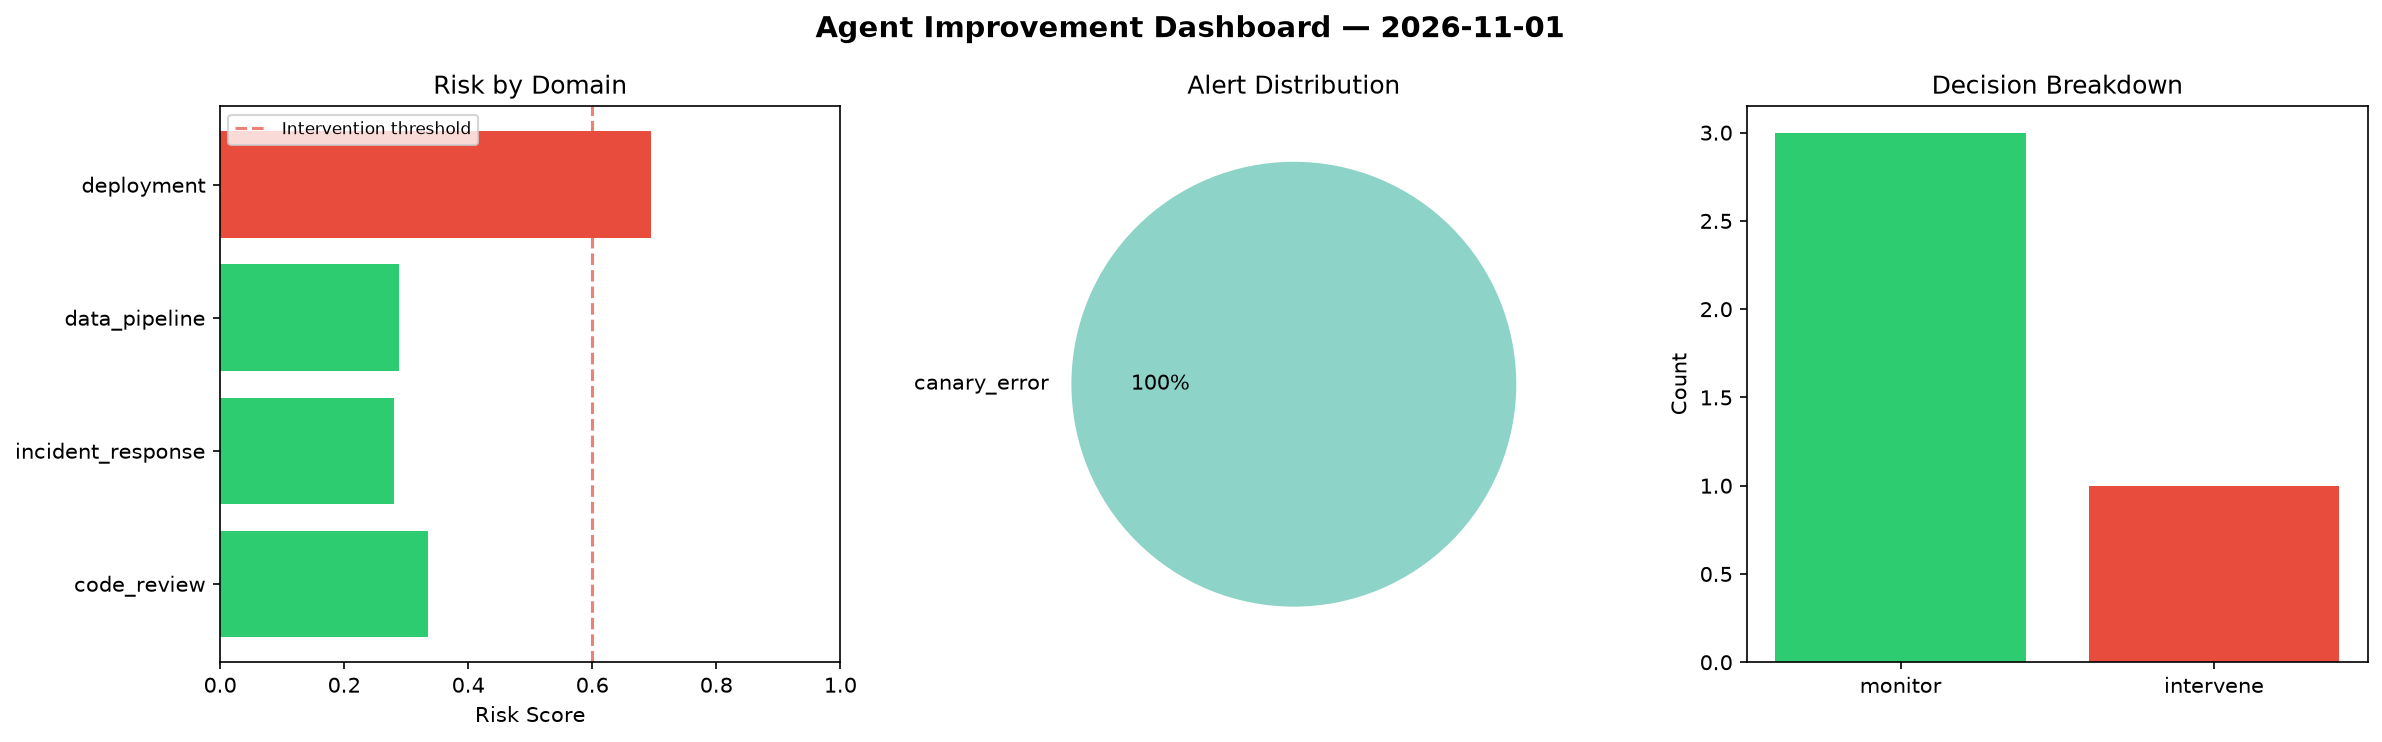
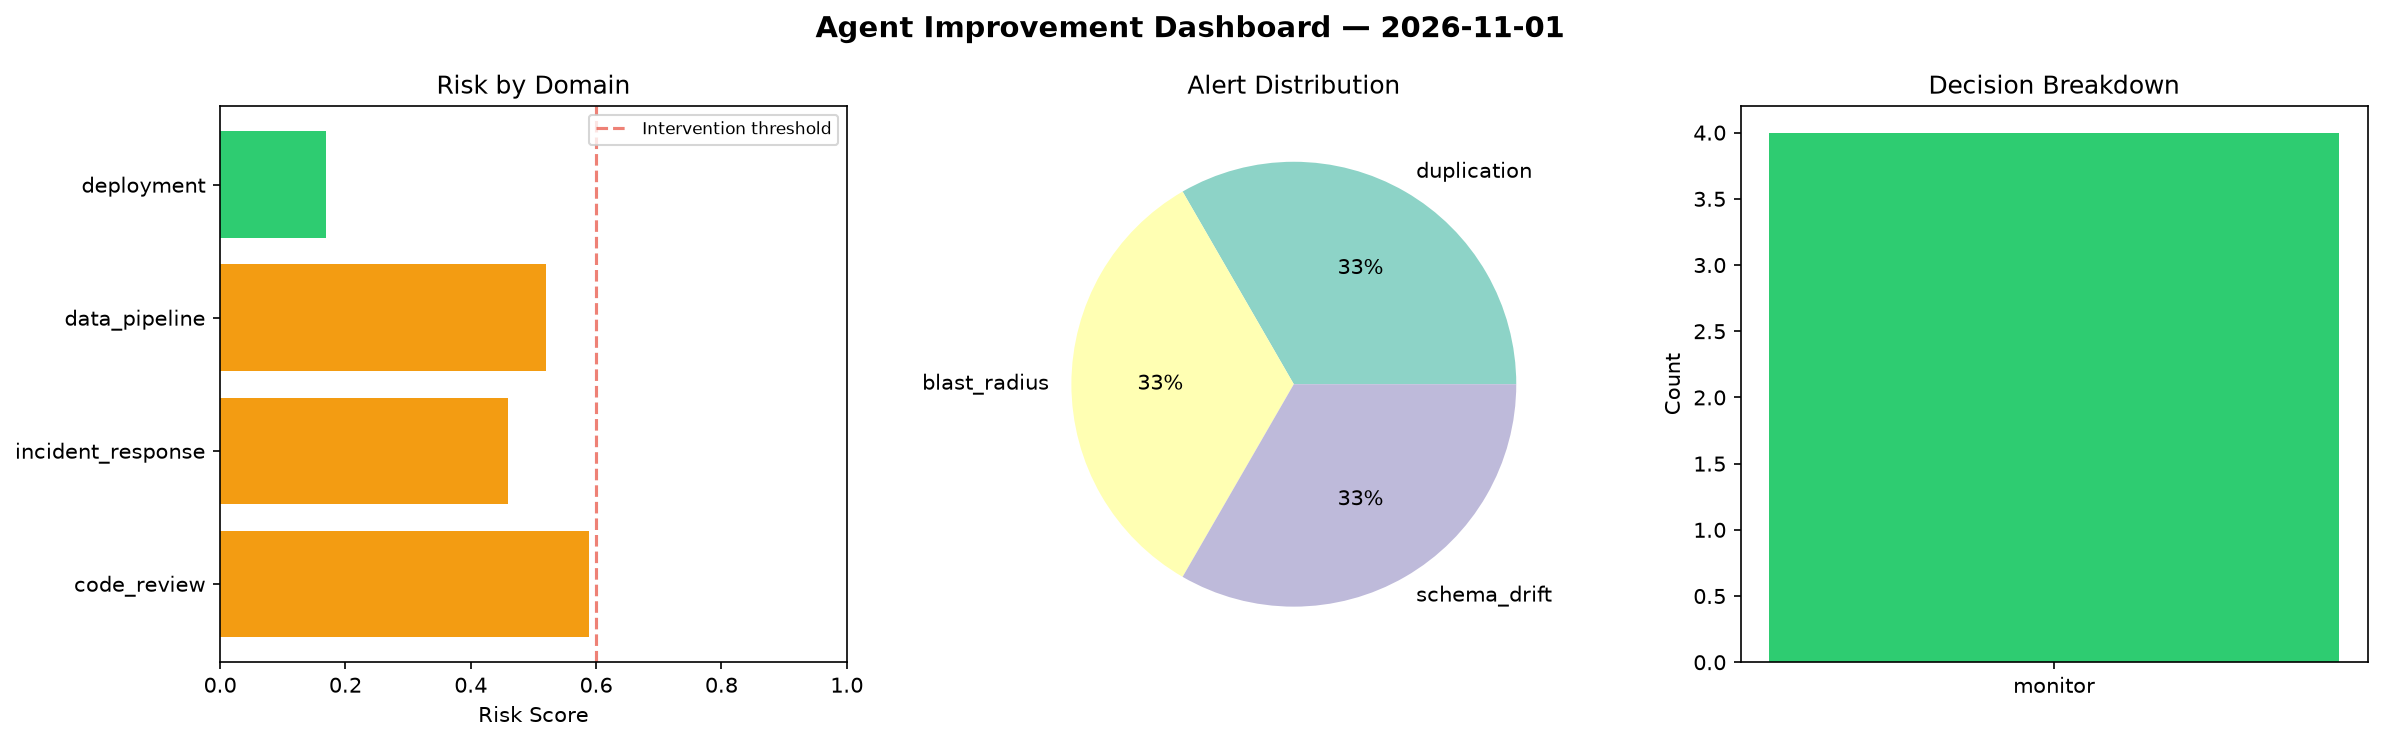
agent-improvement: daily cycle 2026-11-01T15:07

diff --git a/logs/2026-11-01.md b/logs/2026-11-01.md
@@ -1,6 +1,6 @@
 # Agent Improvement Report — 2026-11-01
 
-**Cycle ID:** `fd884982` | **Avg Risk:** 0.3996 | **Interventions:** 1/4
+**Cycle ID:** `a69ae072` | **Avg Risk:** 0.4346 | **Interventions:** 0/4
 
 ![Dashboard](2026-11-01_dashboard.png)
 
@@ -10,18 +10,18 @@
 
 | Domain | Risk Score | Decision | Alerts |
 |--------|-----------|----------|--------|
-| code_review | 0.3358 | monitor | none |
-| incident_response | 0.2808 | monitor | none |
-| data_pipeline | 0.2877 | monitor | none |
-| deployment | 0.6939 | intervene | canary_error |
+| code_review | 0.5887 | monitor | duplication |
+| incident_response | 0.4599 | monitor | blast_radius |
+| data_pipeline | 0.5204 | monitor | schema_drift |
+| deployment | 0.1694 | monitor | none |
 
 ## Delta vs Yesterday
 
 | Domain | Today | Yesterday | Change |
 |--------|-------|-----------|--------|
-| code_review | 0.3358 | 0.4034 | 📉 -16.8% |
-| incident_response | 0.2808 | 0.3838 | 📉 -26.8% |
-| data_pipeline | 0.2877 | 0.5256 | 📉 -45.3% |
-| deployment | 0.6939 | 0.7272 | 📉 -4.6% |
+| code_review | 0.5887 | 0.4034 | 📈 45.9% |
+| incident_response | 0.4599 | 0.3838 | 📈 19.8% |
+| data_pipeline | 0.5204 | 0.5256 | 📉 -1.0% |
+| deployment | 0.1694 | 0.7272 | 📉 -76.7% |
 
-**Refinement:** `{'adjustment': 'tighten_thresholds', 'trend': 'degrading', 'window': 4}`
+**Refinement:** `{'adjustment': 'maintain', 'trend': 'improving', 'window': 4}`
